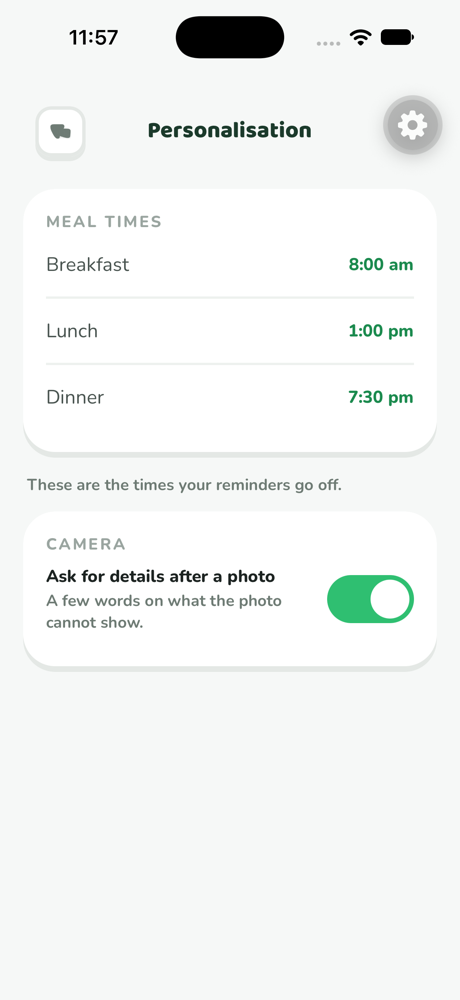
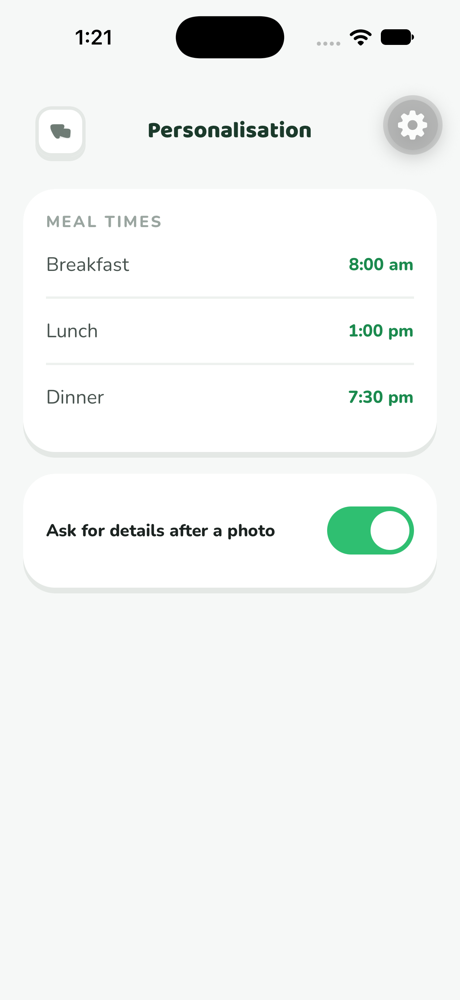
Title the note step "Additional information" and trim the Personalisation copy
The note step's heading names the field instead of asking a question, and sits
closer to it. Personalisation loses the line under the meal times, the CAMERA
heading and the toggle's hint, in all 13 languages.

Changed region(s): [[0.0609, 0.465, 0.9435, 0.651], [0.1522, 0.031, 0.2435, 0.062]]

diff --git a/apps/mobile/src/features/logging/PhotoNotePanel.tsx b/apps/mobile/src/features/logging/PhotoNotePanel.tsx
@@ -121,25 +121,29 @@ export function PhotoNotePanel({ photoUri, onLog, onSkip, onRetake }: PhotoNoteP
           </Tappable>
         </View>
 
-        <Text variant="subtitle">{t('logging:photoNote.title')}</Text>
+        {/* Closer to its field than the rest of the stack is spaced: the title
+            names the field, so the two read as one control. */}
+        <View className="gap-1.5">
+          <Text variant="subtitle">{t('logging:photoNote.title')}</Text>
 
-        <TextField
-          value={note}
-          onChangeText={setNote}
-          placeholder={t('logging:photoNote.placeholder')}
-          accessibilityLabel={t('logging:photoNote.title')}
-          // Up with the step, not a tap later: the whole point of asking here
-          // is that the thumb is already on the screen.
-          autoFocus
-          multiline
-          // Return logs. A note is a line, and making somebody reach past the
-          // keyboard for the button is the slow way to say "that's it".
-          submitBehavior="submit"
-          returnKeyType="done"
-          onSubmitEditing={log}
-          maxLength={PHOTO_NOTE_MAX}
-          className="max-h-[96px] min-h-[52px]"
-        />
+          <TextField
+            value={note}
+            onChangeText={setNote}
+            placeholder={t('logging:photoNote.placeholder')}
+            accessibilityLabel={t('logging:photoNote.title')}
+            // Up with the step, not a tap later: the whole point of asking here
+            // is that the thumb is already on the screen.
+            autoFocus
+            multiline
+            // Return logs. A note is a line, and making somebody reach past the
+            // keyboard for the button is the slow way to say "that's it".
+            submitBehavior="submit"
+            returnKeyType="done"
+            onSubmitEditing={log}
+            maxLength={PHOTO_NOTE_MAX}
+            className="max-h-[96px] min-h-[52px]"
+          />
+        </View>
 
         {/* One line that scrolls, like the fix sheet's suggestions, so a long
             translation runs off the edge rather than wrapping the row under

diff --git a/apps/mobile/src/i18n/ta.ts b/apps/mobile/src/i18n/ta.ts
@@ -731,7 +731,7 @@ export const ta = {
     },
 
     photoNote: {
-      title: 'புகைப்படத்தில் தெரியாதது ஏதாவது?',
+      title: 'கூடுதல் தகவல்',
       placeholder: 'கோழி அல்ல, ஆட்டிறைச்சி, சர்க்கரை இல்லா டீ, பகிர்ந்தது',
       skip: 'தவிர்',
       log: 'உணவைப் பதிவு செய்',
@@ -1196,14 +1196,11 @@ export const ta = {
     personalisation: {
       title: 'தனிப்பயன்',
       mealsTitle: 'உணவு நேரங்கள்',
-      mealsNote: 'உங்கள் நினைவூட்டல்கள் ஒலிக்கும் நேரங்கள் இவை.',
       editMeal: '{{meal}} எப்போது என்பதை மாற்று',
       hour: 'மணி',
       minute: 'நிமிடம்',
       preview: '{{time}} மணிக்கு நினைவூட்டும்',
-      cameraTitle: 'கேமரா',
       photoNote: 'புகைப்படத்திற்குப் பின் விவரம் கேள்',
-      photoNoteBody: 'புகைப்படத்தில் தெரியாதவை பற்றி சில வார்த்தைகள்.',
     },
 
     reminders: {

diff --git a/apps/mobile/src/i18n/bn.ts b/apps/mobile/src/i18n/bn.ts
@@ -717,7 +717,7 @@ export const bn = {
     },
 
     photoNote: {
-      title: 'ছবিতে দেখা যায় না এমন কিছু?',
+      title: 'অতিরিক্ত তথ্য',
       placeholder: 'মুরগি নয়, গরুর মাংস, চিনি ছাড়া চা, ভাগ করে খেয়েছি',
       skip: 'বাদ দিন',
       log: 'খাবার লগ করুন',
@@ -1180,14 +1180,11 @@ export const bn = {
     personalisation: {
       title: 'নিজের মতো',
       mealsTitle: 'খাবারের সময়',
-      mealsNote: 'এই সময়েই আপনার মনে করানো বাজে।',
       editMeal: '{{meal}} কখন তা বদলান',
       hour: 'ঘণ্টা',
       minute: 'মিনিট',
       preview: '{{time}} এ মনে করাবে',
-      cameraTitle: 'ক্যামেরা',
       photoNote: 'ছবির পরে বিস্তারিত জিজ্ঞাসা করুন',
-      photoNoteBody: 'ছবিতে যা দেখা যায় না, সে সম্পর্কে কয়েকটি কথা।',
     },
 
     reminders: {

diff --git a/apps/mobile/src/i18n/th.ts b/apps/mobile/src/i18n/th.ts
@@ -721,7 +721,7 @@ export const th = {
     },
 
     photoNote: {
-      title: 'มีอะไรที่รูปบอกไม่ได้ไหม',
+      title: 'ข้อมูลเพิ่มเติม',
       placeholder: 'เนื้อวัว ไม่ใช่ไก่, ชาไม่ใส่น้ำตาล, แบ่งกันกิน',
       skip: 'ข้าม',
       log: 'บันทึกมื้อนี้',
@@ -1181,14 +1181,11 @@ export const th = {
     personalisation: {
       title: 'ปรับให้เข้ากับคุณ',
       mealsTitle: 'เวลามื้ออาหาร',
-      mealsNote: 'นี่คือเวลาที่การเตือนจะดัง',
       editMeal: 'เปลี่ยนเวลาของ{{meal}}',
       hour: 'ชั่วโมง',
       minute: 'นาที',
       preview: 'เตือนเวลา {{time}}',
-      cameraTitle: 'กล้อง',
       photoNote: 'ถามรายละเอียดหลังถ่ายรูป',
-      photoNoteBody: 'เพิ่มคำสั้นๆ ในสิ่งที่รูปบอกไม่ได้',
     },
 
     reminders: {

diff --git a/apps/mobile/src/i18n/hi.ts b/apps/mobile/src/i18n/hi.ts
@@ -718,7 +718,7 @@ export const hi = {
     },
 
     photoNote: {
-      title: 'कुछ ऐसा जो फ़ोटो में नहीं दिखता?',
+      title: 'अतिरिक्त जानकारी',
       placeholder: 'चिकन नहीं, मटन, बिना चीनी की चाय, शेयर किया',
       skip: 'छोड़ें',
       log: 'भोजन दर्ज करें',
@@ -1183,14 +1183,11 @@ export const hi = {
     personalisation: {
       title: 'अपने मुताबिक़',
       mealsTitle: 'भोजन का समय',
-      mealsNote: 'ये वे समय हैं जब आपकी याद बजती है।',
       editMeal: '{{meal}} का समय बदलें',
       hour: 'घंटा',
       minute: 'मिनट',
       preview: '{{time}} पर याद दिलाएगा',
-      cameraTitle: 'कैमरा',
       photoNote: 'फ़ोटो के बाद विवरण पूछें',
-      photoNoteBody: 'जो फ़ोटो में नहीं दिखता, उसके बारे में कुछ शब्द।',
     },
 
     reminders: {

diff --git a/apps/mobile/src/i18n/en/profile.ts b/apps/mobile/src/i18n/en/profile.ts
@@ -254,23 +254,16 @@ export const profile = {
   personalisation: {
     title: 'Personalisation',
     mealsTitle: 'MEAL TIMES',
-    /**
-     * What these times are for, now that they are only for one thing. They
-     * used to decide what the app assumed you were logging as well — that
-     * went with the `meal` column on an entry.
-     */
-    mealsNote: 'These are the times your reminders go off.',
     editMeal: 'Change when {{meal}} is',
     hour: 'Hour',
     minute: 'Minute',
     preview: 'Reminds at {{time}}',
     /**
      * The camera's follow-up question. Named for what it does to the shutter,
-     * since that is where somebody turning it off has met it.
+     * since that is where somebody turning it off has met it, and on its own:
+     * the row needs no heading or hint to say what it switches.
      */
-    cameraTitle: 'CAMERA',
     photoNote: 'Ask for details after a photo',
-    photoNoteBody: 'A few words on what the photo cannot show.',
   },
 
   reminders: {

diff --git a/apps/mobile/src/i18n/en/logging.ts b/apps/mobile/src/i18n/en/logging.ts
@@ -179,13 +179,13 @@ export const logging = {
 
   /**
    * The step after the shutter: a few words about what the photo cannot show.
-   * The placeholder is the instruction, like the describe box's, and it names
-   * the three things a picture is worst at: which meat, what is in the cup, and
-   * whose plate it was. The chips are added to the note, not sent on their own,
-   * so they are short phrases a person would type.
+   * The title only names the field; the placeholder is the instruction, like the
+   * describe box's, and it names the three things a picture is worst at: which
+   * meat, what is in the cup, and whose plate it was. The chips are added to the
+   * note, not sent on their own, so they are short phrases a person would type.
    */
   photoNote: {
-    title: "Anything the photo can't show?",
+    title: 'Additional information',
     placeholder: 'Beef not chicken, teh o kosong, shared',
     skip: 'Skip',
     log: 'Log meal',

diff --git a/apps/mobile/app/settings/personalisation.tsx b/apps/mobile/app/settings/personalisation.tsx
@@ -127,11 +127,7 @@ export default function PersonalisationScreen() {
         )}
       </Card>
 
-      <Text variant="meta" className="px-1">
-        {t('profile:personalisation.mealsNote')}
-      </Text>
-
-      <Card title={t('profile:personalisation.cameraTitle')} contentClassName="gap-0">
+      <Card contentClassName="gap-0">
         {/* A switch shows a position whatever it is given, so it waits for the
             row rather than claiming "on" for a beat and then flipping. */}
         {settingsPending ? (
@@ -139,7 +135,6 @@ export default function PersonalisationScreen() {
         ) : (
           <ToggleRow
             title={t('profile:personalisation.photoNote')}
-            description={t('profile:personalisation.photoNoteBody')}
             value={settings?.photo_note_prompt ?? true}
             onValueChange={(value) => updateSettings.mutate({ photo_note_prompt: value })}
             divider={false}

diff --git a/apps/mobile/src/i18n/vi.ts b/apps/mobile/src/i18n/vi.ts
@@ -728,7 +728,7 @@ export const vi = {
     },
 
     photoNote: {
-      title: 'Có gì ảnh không thể hiện được?',
+      title: 'Thông tin bổ sung',
       placeholder: 'Thịt bò chứ không phải gà, trà không đường, ăn chung',
       skip: 'Bỏ qua',
       log: 'Ghi bữa ăn',
@@ -1195,14 +1195,11 @@ export const vi = {
     personalisation: {
       title: 'Cá nhân hoá',
       mealsTitle: 'GIỜ ĂN',
-      mealsNote: 'Đây là giờ các lời nhắc của bạn reo lên.',
       editMeal: 'Đổi giờ của {{meal}}',
       hour: 'Giờ',
       minute: 'Phút',
       preview: 'Nhắc lúc {{time}}',
-      cameraTitle: 'MÁY ẢNH',
       photoNote: 'Hỏi thêm chi tiết sau khi chụp',
-      photoNoteBody: 'Vài chữ về điều ảnh không thể hiện.',
     },
 
     reminders: {

diff --git a/apps/mobile/src/i18n/fil.ts b/apps/mobile/src/i18n/fil.ts
@@ -749,7 +749,7 @@ export const fil = {
     },
 
     photoNote: {
-      title: 'May hindi ba makikita sa litrato?',
+      title: 'Karagdagang impormasyon',
       placeholder: 'Karne ng baka, hindi manok, teh o kosong, hati kami',
       skip: 'Laktawan',
       log: 'I-log ang pagkain',
@@ -1218,14 +1218,11 @@ export const fil = {
     personalisation: {
       title: 'Personalisasyon',
       mealsTitle: 'ORAS NG PAGKAIN',
-      mealsNote: 'Ito ang oras na tumutunog ang mga paalala mo.',
       editMeal: 'Baguhin kung kailan ang {{meal}}',
       hour: 'Oras',
       minute: 'Minuto',
       preview: 'Magpapaalala nang {{time}}',
-      cameraTitle: 'CAMERA',
       photoNote: 'Magtanong ng detalye pagkatapos ng litrato',
-      photoNoteBody: 'Ilang salita tungkol sa hindi makikita sa litrato.',
     },
 
     reminders: {

diff --git a/apps/mobile/src/i18n/ja.ts b/apps/mobile/src/i18n/ja.ts
@@ -729,7 +729,7 @@ export const ja = {
     },
 
     photoNote: {
-      title: '写真でわからないことは？',
+      title: '追加情報',
       placeholder: '鶏じゃなく牛肉、無糖の紅茶、シェアした',
       skip: 'スキップ',
       log: '記録する',
@@ -1193,14 +1193,11 @@ export const ja = {
     personalisation: {
       title: 'パーソナライズ',
       mealsTitle: '食事の時間',
-      mealsNote: 'リマインダーが鳴る時間です。',
       editMeal: '{{meal}}の時間を変更',
       hour: '時',
       minute: '分',
       preview: '{{time}} に通知',
-      cameraTitle: 'カメラ',
       photoNote: '撮影後に詳細を尋ねる',
-      photoNoteBody: '写真でわからないことを一言で。',
     },
 
     reminders: {

diff --git a/apps/mobile/src/i18n/ko.ts b/apps/mobile/src/i18n/ko.ts
@@ -724,7 +724,7 @@ export const ko = {
     },
 
     photoNote: {
-      title: '사진으로 알 수 없는 게 있나요?',
+      title: '추가 정보',
       placeholder: '닭고기 말고 소고기, 무가당 차, 나눠 먹음',
       skip: '건너뛰기',
       log: '식사 기록',
@@ -1189,14 +1189,11 @@ export const ko = {
     personalisation: {
       title: '개인화',
       mealsTitle: '식사 시간',
-      mealsNote: '알림이 울리는 시간입니다.',
       editMeal: '{{meal}} 시간 바꾸기',
       hour: '시',
       minute: '분',
       preview: '{{time}}에 알림',
-      cameraTitle: '카메라',
       photoNote: '사진 찍은 후 자세히 묻기',
-      photoNoteBody: '사진으로 알 수 없는 내용을 몇 마디로.',
     },
 
     reminders: {
